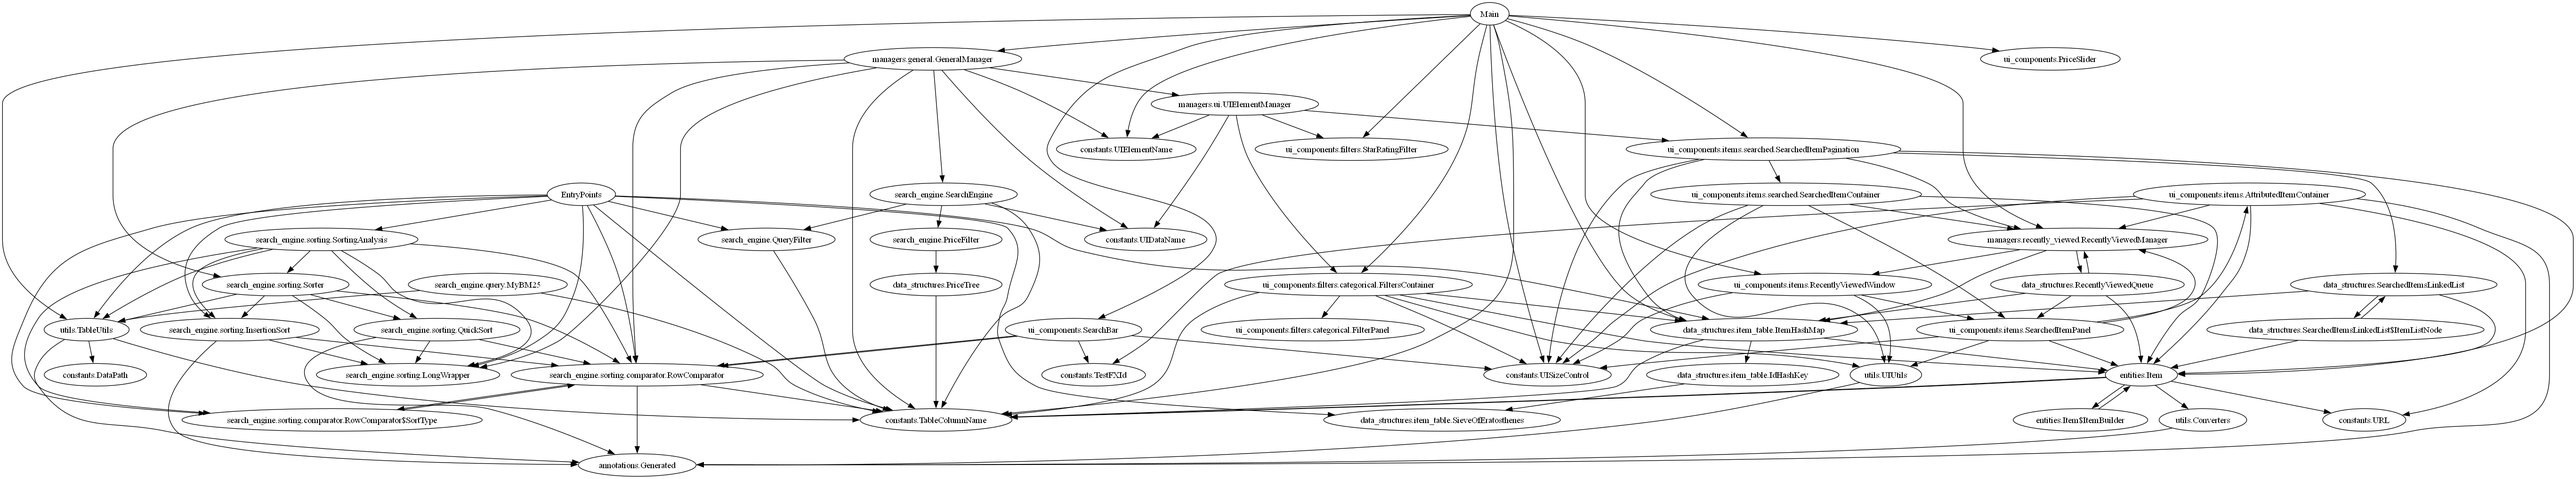
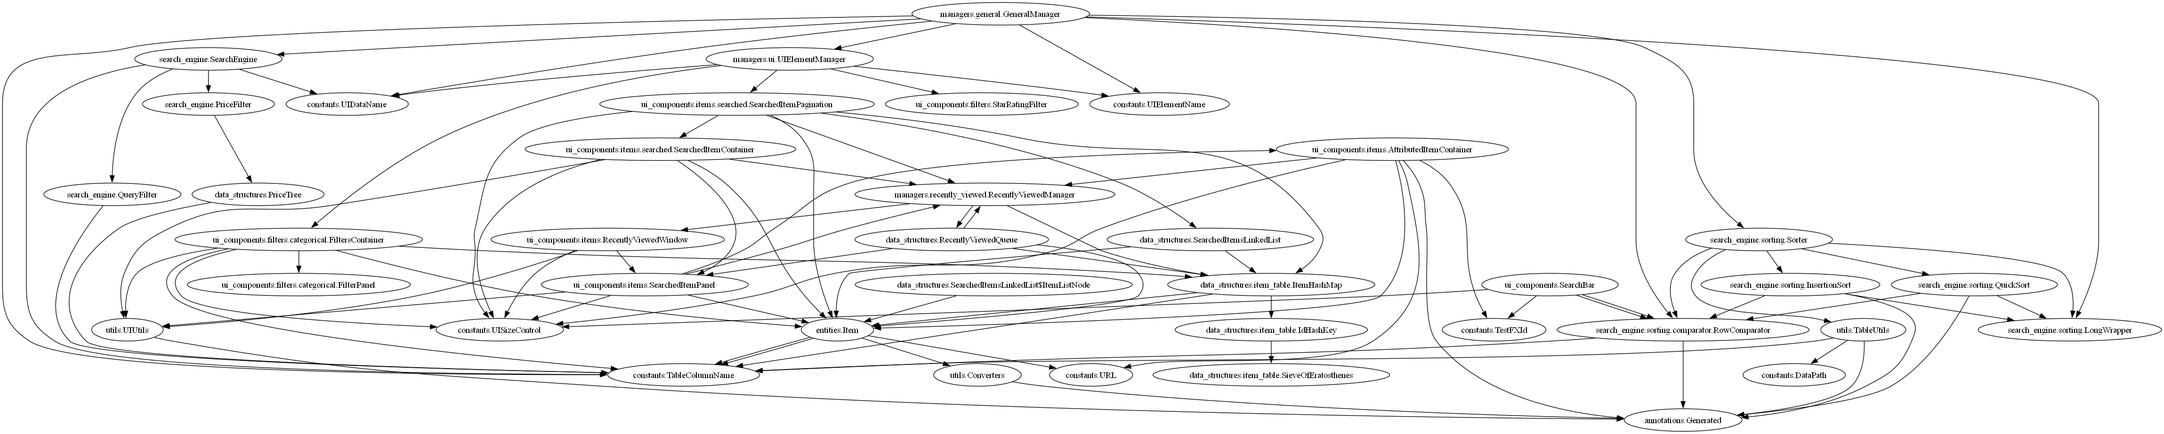
cleaned up python script for dependency graph cleaning

diff --git a/graph_filter.py b/graph_filter.py
@@ -6,6 +6,14 @@ def my_filter(line):
     if "data_manipulation" in line or "\"org.troy.capstone\"" in line:
         return False
     
+    #Filter out the ItemBuilder class, as this is lombok generated
+    if "ItemBuilder" in line:
+        return False
+    
+    #Do not allow the SortingAnalysis and MyBM25 classes, as they are not part of main execution
+    if "SortingAnalysis" in line or "MyBM25" in line:
+        return False
+    
     #Metadata linses that are needed for the graph to be valid
     if line.startswith("digraph") or line.startswith("}") or "// Path:" in line:
         return True
@@ -35,15 +43,28 @@ for line in lines:
         line_set.add(line)
 lines = new_lines
 #Get rid of self loops by getting strings in first two sets of quotes and checking if they are the same
+#Also, get rid of lines who have any group with no period in it, as those are root package classes
 re_str = "\"([^\"]*)\".*->.*\"([^\"]*)\""
 new_lines = []
 for line in lines:
     match = re.search(re_str, line)
     if match:
-        if match.re.groups == 2 and match.group(1) != match.group(2):
+        if match.re.groups == 2 and match.group(1) != match.group(2) and "." in match.group(1) and "." in match.group(2):
             new_lines.append(line)
     else:
         new_lines.append(line)
+lines = new_lines
+ # Get rid of connections between classes and their own inner classes
+re_str = r'"([^"]+)"\s*->\s*"([^"]+)"'
+new_lines = []
+for line in lines:
+    match = re.search(re_str, line)
+    if match:
+        class_no_outer_1 = match.group(1).split('$')[0]
+        class_no_outer_2 = match.group(2).split('$')[0]
+        if class_no_outer_1 == class_no_outer_2:
+            continue
+    new_lines.append(line)
 lines = new_lines
 with open("docs/dependency_graph/filtered_classes.dot", "w") as f:
     f.writelines(lines)
